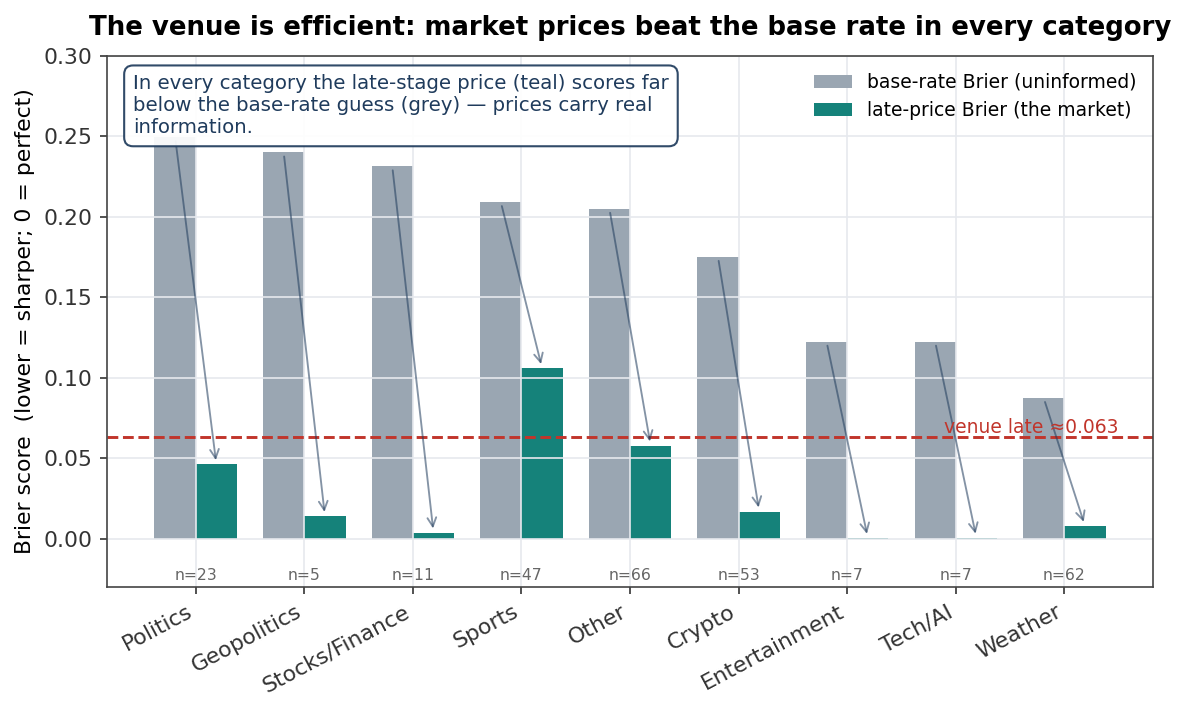
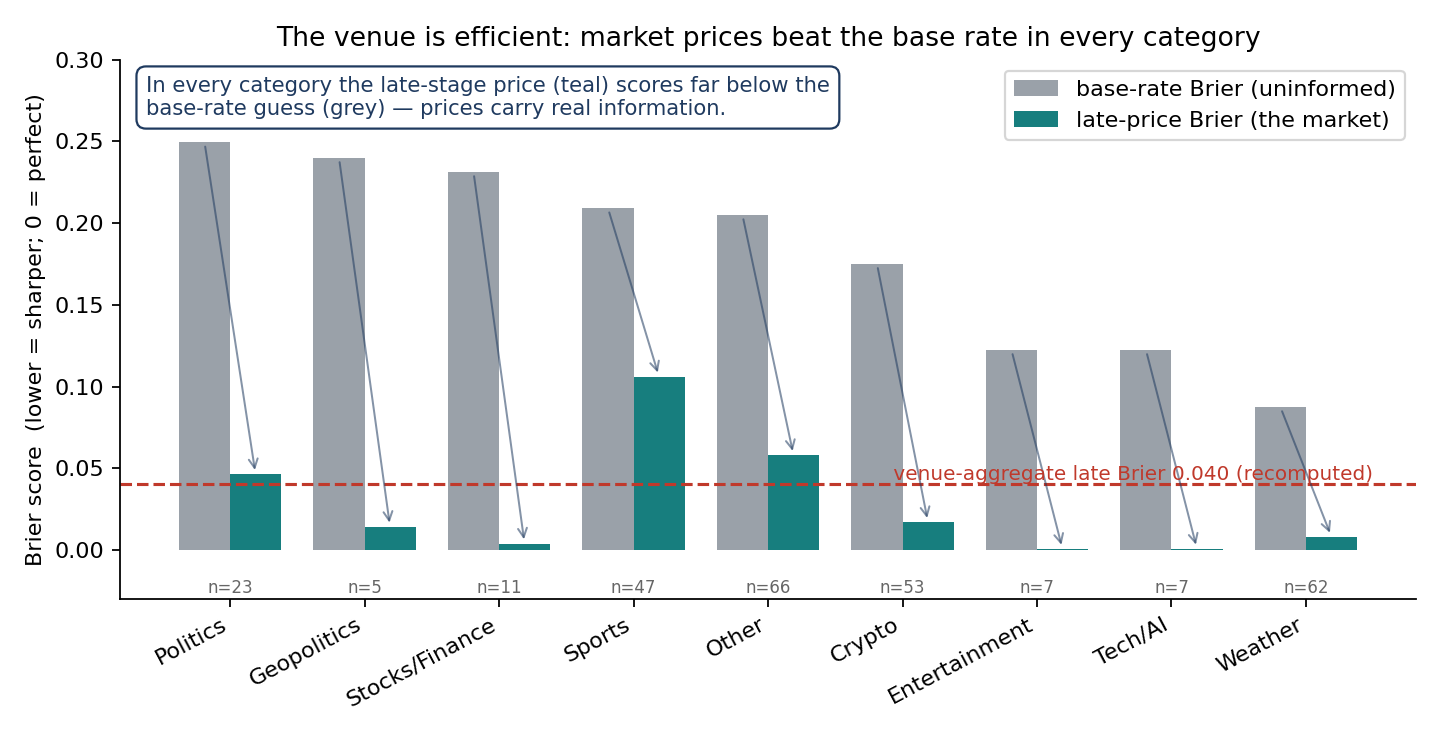
Propagate thesis honesty fixes: canonical late-price Brier 0.040 (0.063 retired as lifetime-mean artifact; brier_recompute_v0) + correct DATA-LIMITED direction (neural residual = lower bound => 90.8% interpretable share = upper bound); canonical F1 figure

diff --git a/slides/index.html b/slides/index.html
@@ -265,12 +265,13 @@ html.anim .slide.active .reveal.in{opacity:1;transform:none}
   <div class="cell"><div class="lab">Experiment</div><ul><li>Test whether any supervised directional model or coarse prior beats the market.</li><li>Pre-registered, fee-aware backtests; market-clustered bootstrap CIs.</li></ul></div>
   <div class="cell"><div class="lab">Data</div><ul><li><b>1,348</b> resolved markets, <b>~$445M</b> notional.</li><li><b>400</b> markets / <b>188,856</b> trades for the prior test.</li><li>On-chain maker reconstruction (<b>100%</b> matched).</li></ul></div>
   <div class="cell"><div class="lab">Models — supervised / probabilistic</div><ul><li>4 directional classifiers; Brier-score <b>calibration</b> of priors vs the market.</li><li>Cross-market lead-lag; fee-aware PnL accounting.</li><li>Multiple-testing (BH) correction throughout.</li></ul></div>
-  <div class="cell res"><div class="lab">Results</div><ul><li><b>Five independent NO-EDGE</b> results; near-efficient gross of fees.</li><li>Market Brier <b>0.063</b> beats every prior (<b>0.18–0.25</b>).</li><li>Cross-venue: tracks <b>Betfair 99.1%</b>, leads on goals, no basis (n=1).</li><li>Conclusion: study price <em>formation</em>, not edge.</li></ul></div>
+  <div class="cell res"><div class="lab">Results</div><ul><li><b>Five independent NO-EDGE</b> results; near-efficient gross of fees.</li><li>Market late-price Brier <b>0.040</b> beats every prior (<b>0.18–0.25</b>).</li><li>Cross-venue: tracks <b>Betfair 99.1%</b>, leads on goals, no basis (n=1).</li><li>Conclusion: study price <em>formation</em>, not edge.</li></ul></div>
 </div></div>
-        <div class="reveal"><figure><div class="figframe"><img src="figs/f1-efficiency.png" alt="Market Brier 0.063 beats every coarse prior (0.18–0.25), by category"></div>
+        <div class="reveal"><figure><div class="figframe"><img src="figs/f1-efficiency.png" alt="Market late-price Brier 0.040 beats every coarse prior (0.18–0.25), by category"></div>
           <figcaption>Late-stage market price beats the base-rate prior in every category
-            (market Brier ≈0.063 vs 0.18–0.25). The 0.063 here is the <em>cross-category</em> market-Brier shown above; the
-            calibration Brier against the 0.166 base rate is <b>0.0585</b> (structure_report_v0).</figcaption></figure></div>
+            (late-price Brier <b>0.040</b> vs base rates 0.18–0.25; recomputed with provenance, brier_recompute_v0 — an earlier
+            0.063 figure was traced to a lifetime-<em>mean</em>-price Brier on a different pull and is retired; the 0.0585 variant
+            (structure_report_v0) is the same late-price quantity on the disjoint post-fee resolved archive, n=71).</figcaption></figure></div>
       </div></div></section>
 <section class="slide" id="s7"><div class="inner">
       <h2 class="reveal">Exp 2 · Unsupervised latent-state model selection <span class="st done">Complete</span></h2><div class="rule reveal"></div>

diff --git a/framework/index.html b/framework/index.html
@@ -243,7 +243,7 @@ footer{padding:40px 0 64px;border-top:1px solid var(--line);color:var(--muted)}
           <p><span class="seg seg-exp">Reports the groundwork that fixes the thesis's framing, using <b>supervised and probabilistic-forecasting methods</b>:
           pre-registered, fee-aware tests across 1,348 markets train directional classifiers and score the <b>calibration</b> (Brier) of
           coarse priors against the market. The venue clears near-efficiently gross of fees and naive directional models have no
-          out-of-sample edge (five independent negative results; the market price beats every coarse prior, Brier 0.063 vs 0.18–0.25),
+          out-of-sample edge (five independent negative results; the market price beats every coarse prior, late-price Brier 0.040 vs base rates 0.18–0.25),
           under multiple-testing (BH) correction. A <b>cross-venue</b> probe extends the exploitability question beyond Polymarket's own
           book: on a live World Cup match (France v Sweden) captured simultaneously on Polymarket and the professional <b>Betfair</b>
           exchange, the two venues' implied probabilities are <b>99.1% correlated</b>, Polymarket <b>leads</b> on discrete events
@@ -292,8 +292,8 @@ footer{padding:40px 0 64px;border-top:1px solid var(--line);color:var(--muted)}
           51/51 test markets, zero drop-one flips) is <em>localized</em>: a GRU-TPP restricted to the Hawkes model's own count
           history still wins <b>+7,756 nats</b>, so self-excitation is confirmed as the mechanism and the residual sits in the
           exponential kernel's shape plus nonlinear covariate pathways — a concrete neural-Hawkes/flexible-kernel agenda, not a
-          black-box advantage. The benchmark is data-limited (learning curve still rising), so the residual is a lower bound and
-          the 90.8% figure conservative; it is model-selection validation, not an edge (no costs or fills).</span> <span class="seg seg-exp">Inference is
+          black-box advantage. The benchmark is data-limited (learning curve still rising), so the residual is a <em>lower</em> bound —
+          and the 90.8% interpretable share is correspondingly an <em>upper</em> bound (more data would shrink it, not grow it); it is model-selection validation, not an edge (no costs or fills).</span> <span class="seg seg-exp">Inference is
           <b>variational</b> (ELBO, amortized inference networks), validated against Metropolis-within-Gibbs <b>MCMC</b>; events are
           tick-defined and price-stratified; masked gaps enter the likelihood as censored intervals. In parallel, a <b>non-parametric Bayesian</b> strand learns latent market and participant
           types with a <b>Dirichlet-process mixture</b> (cluster count inferred, not assumed) and amortized VI, over a <b>hierarchical
